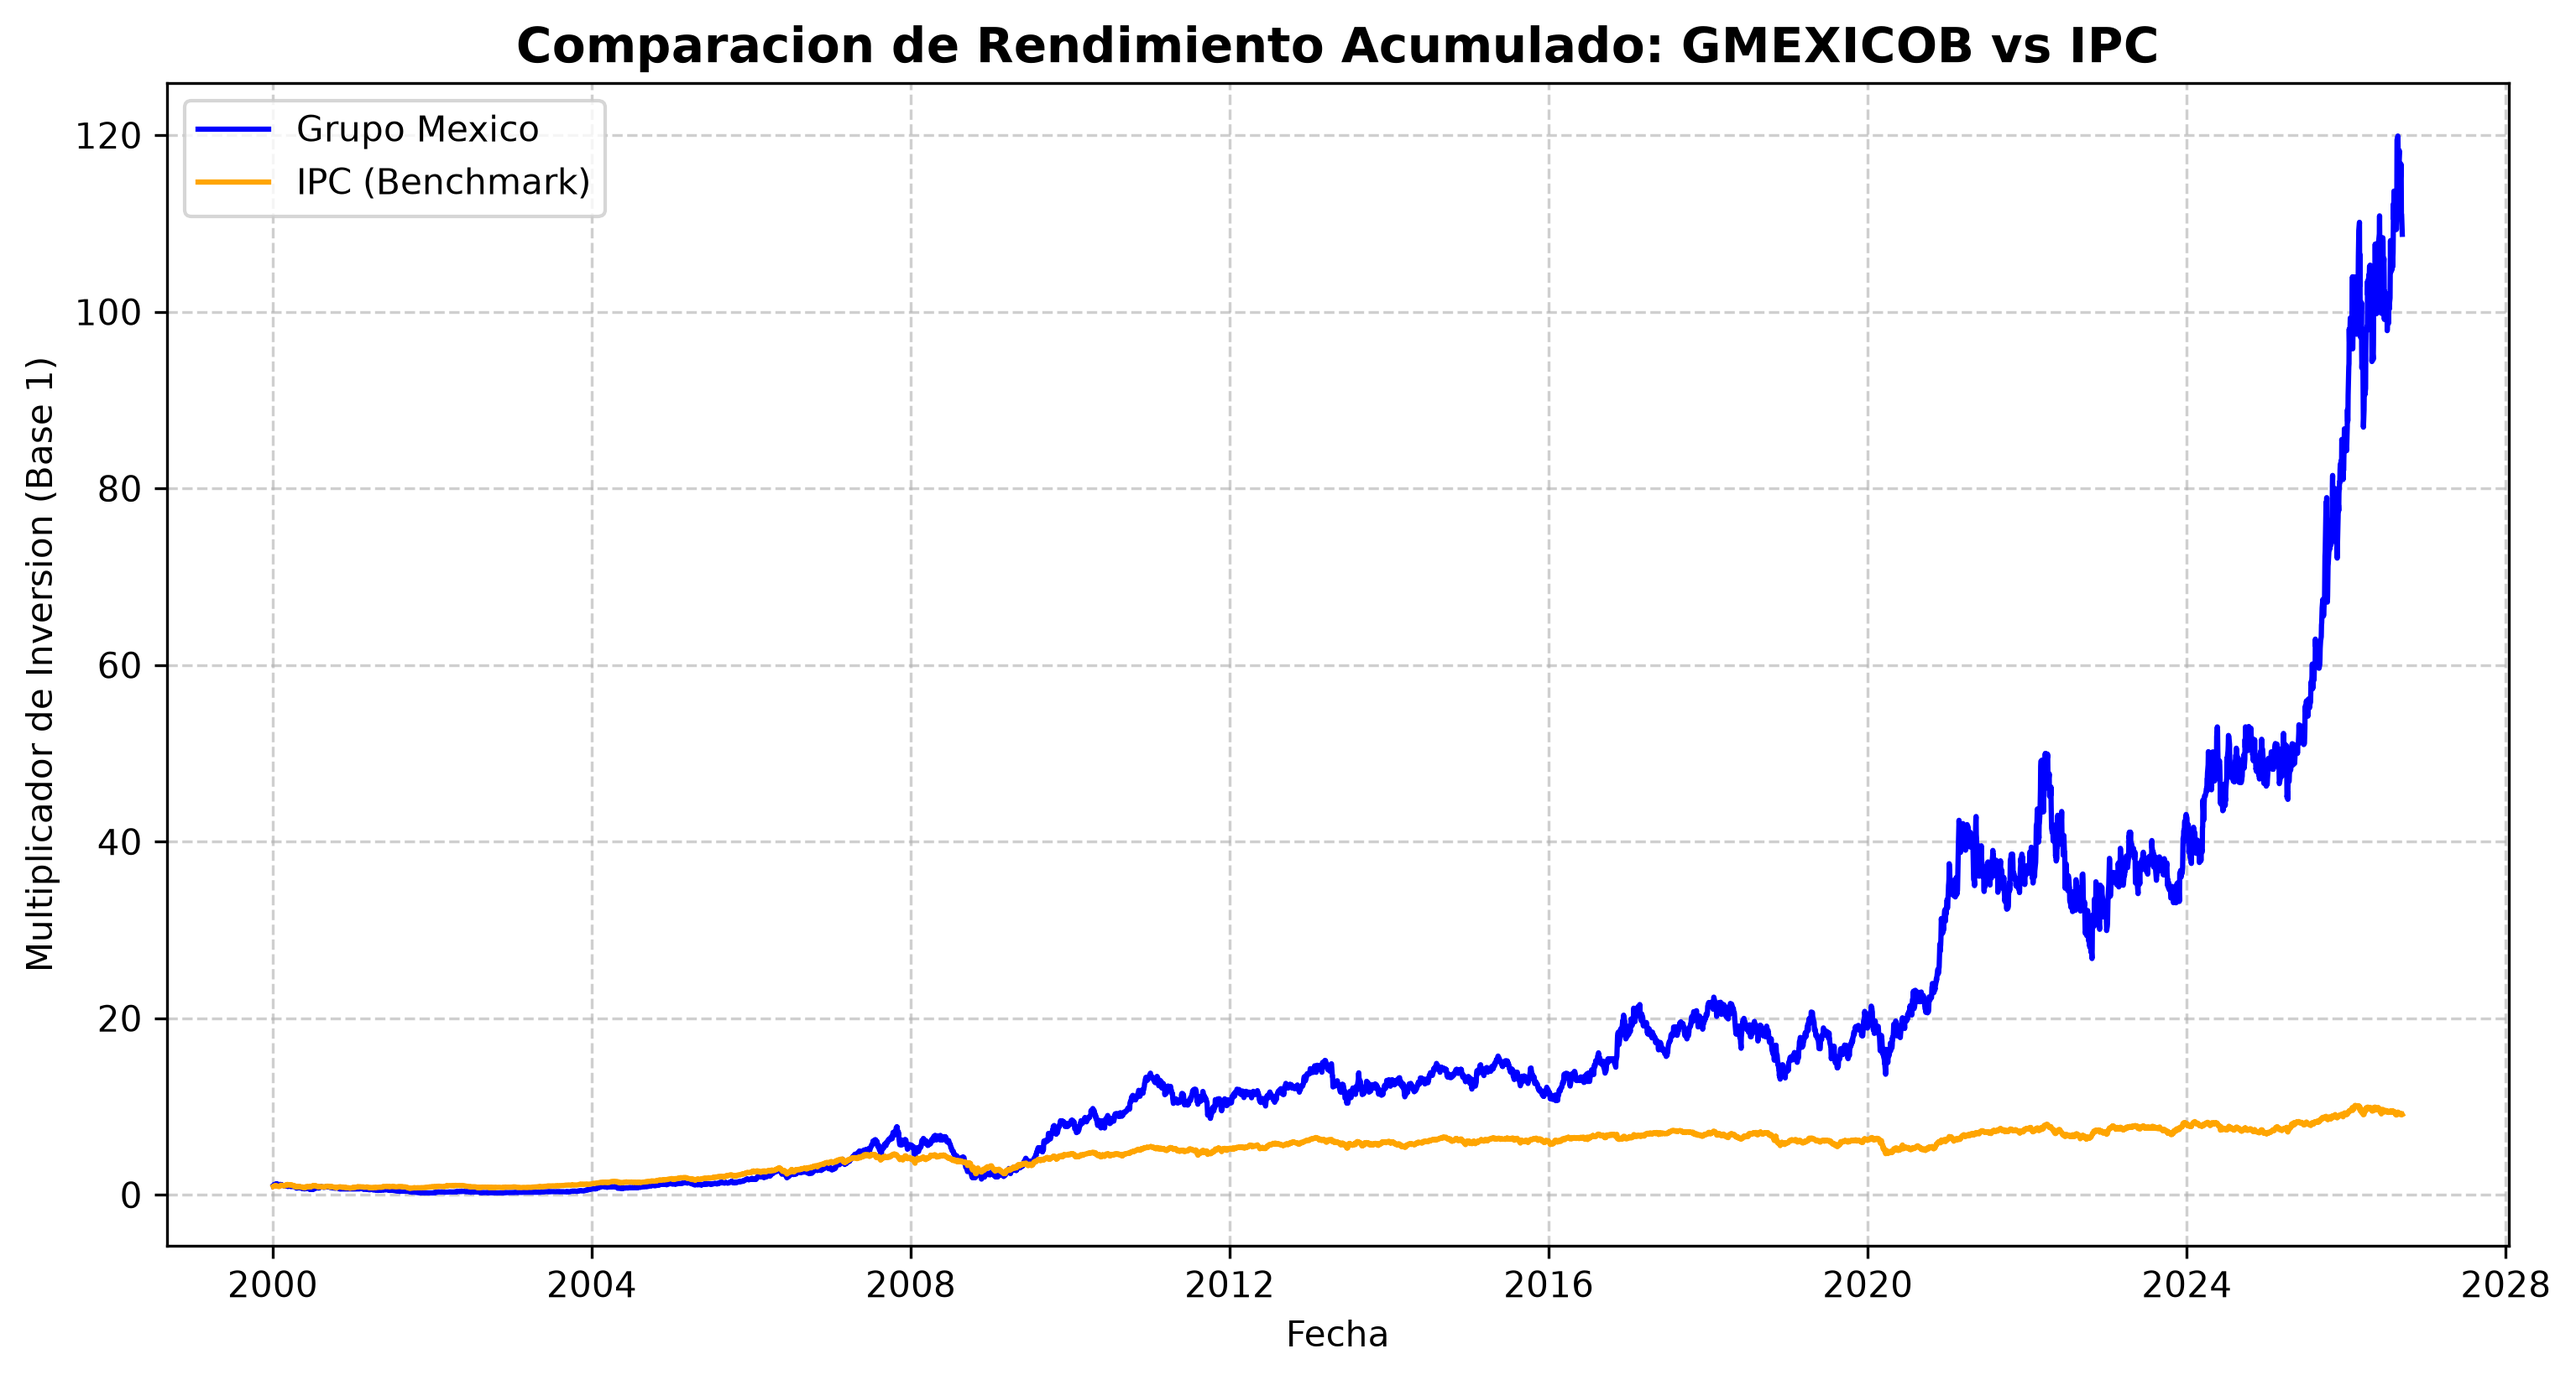
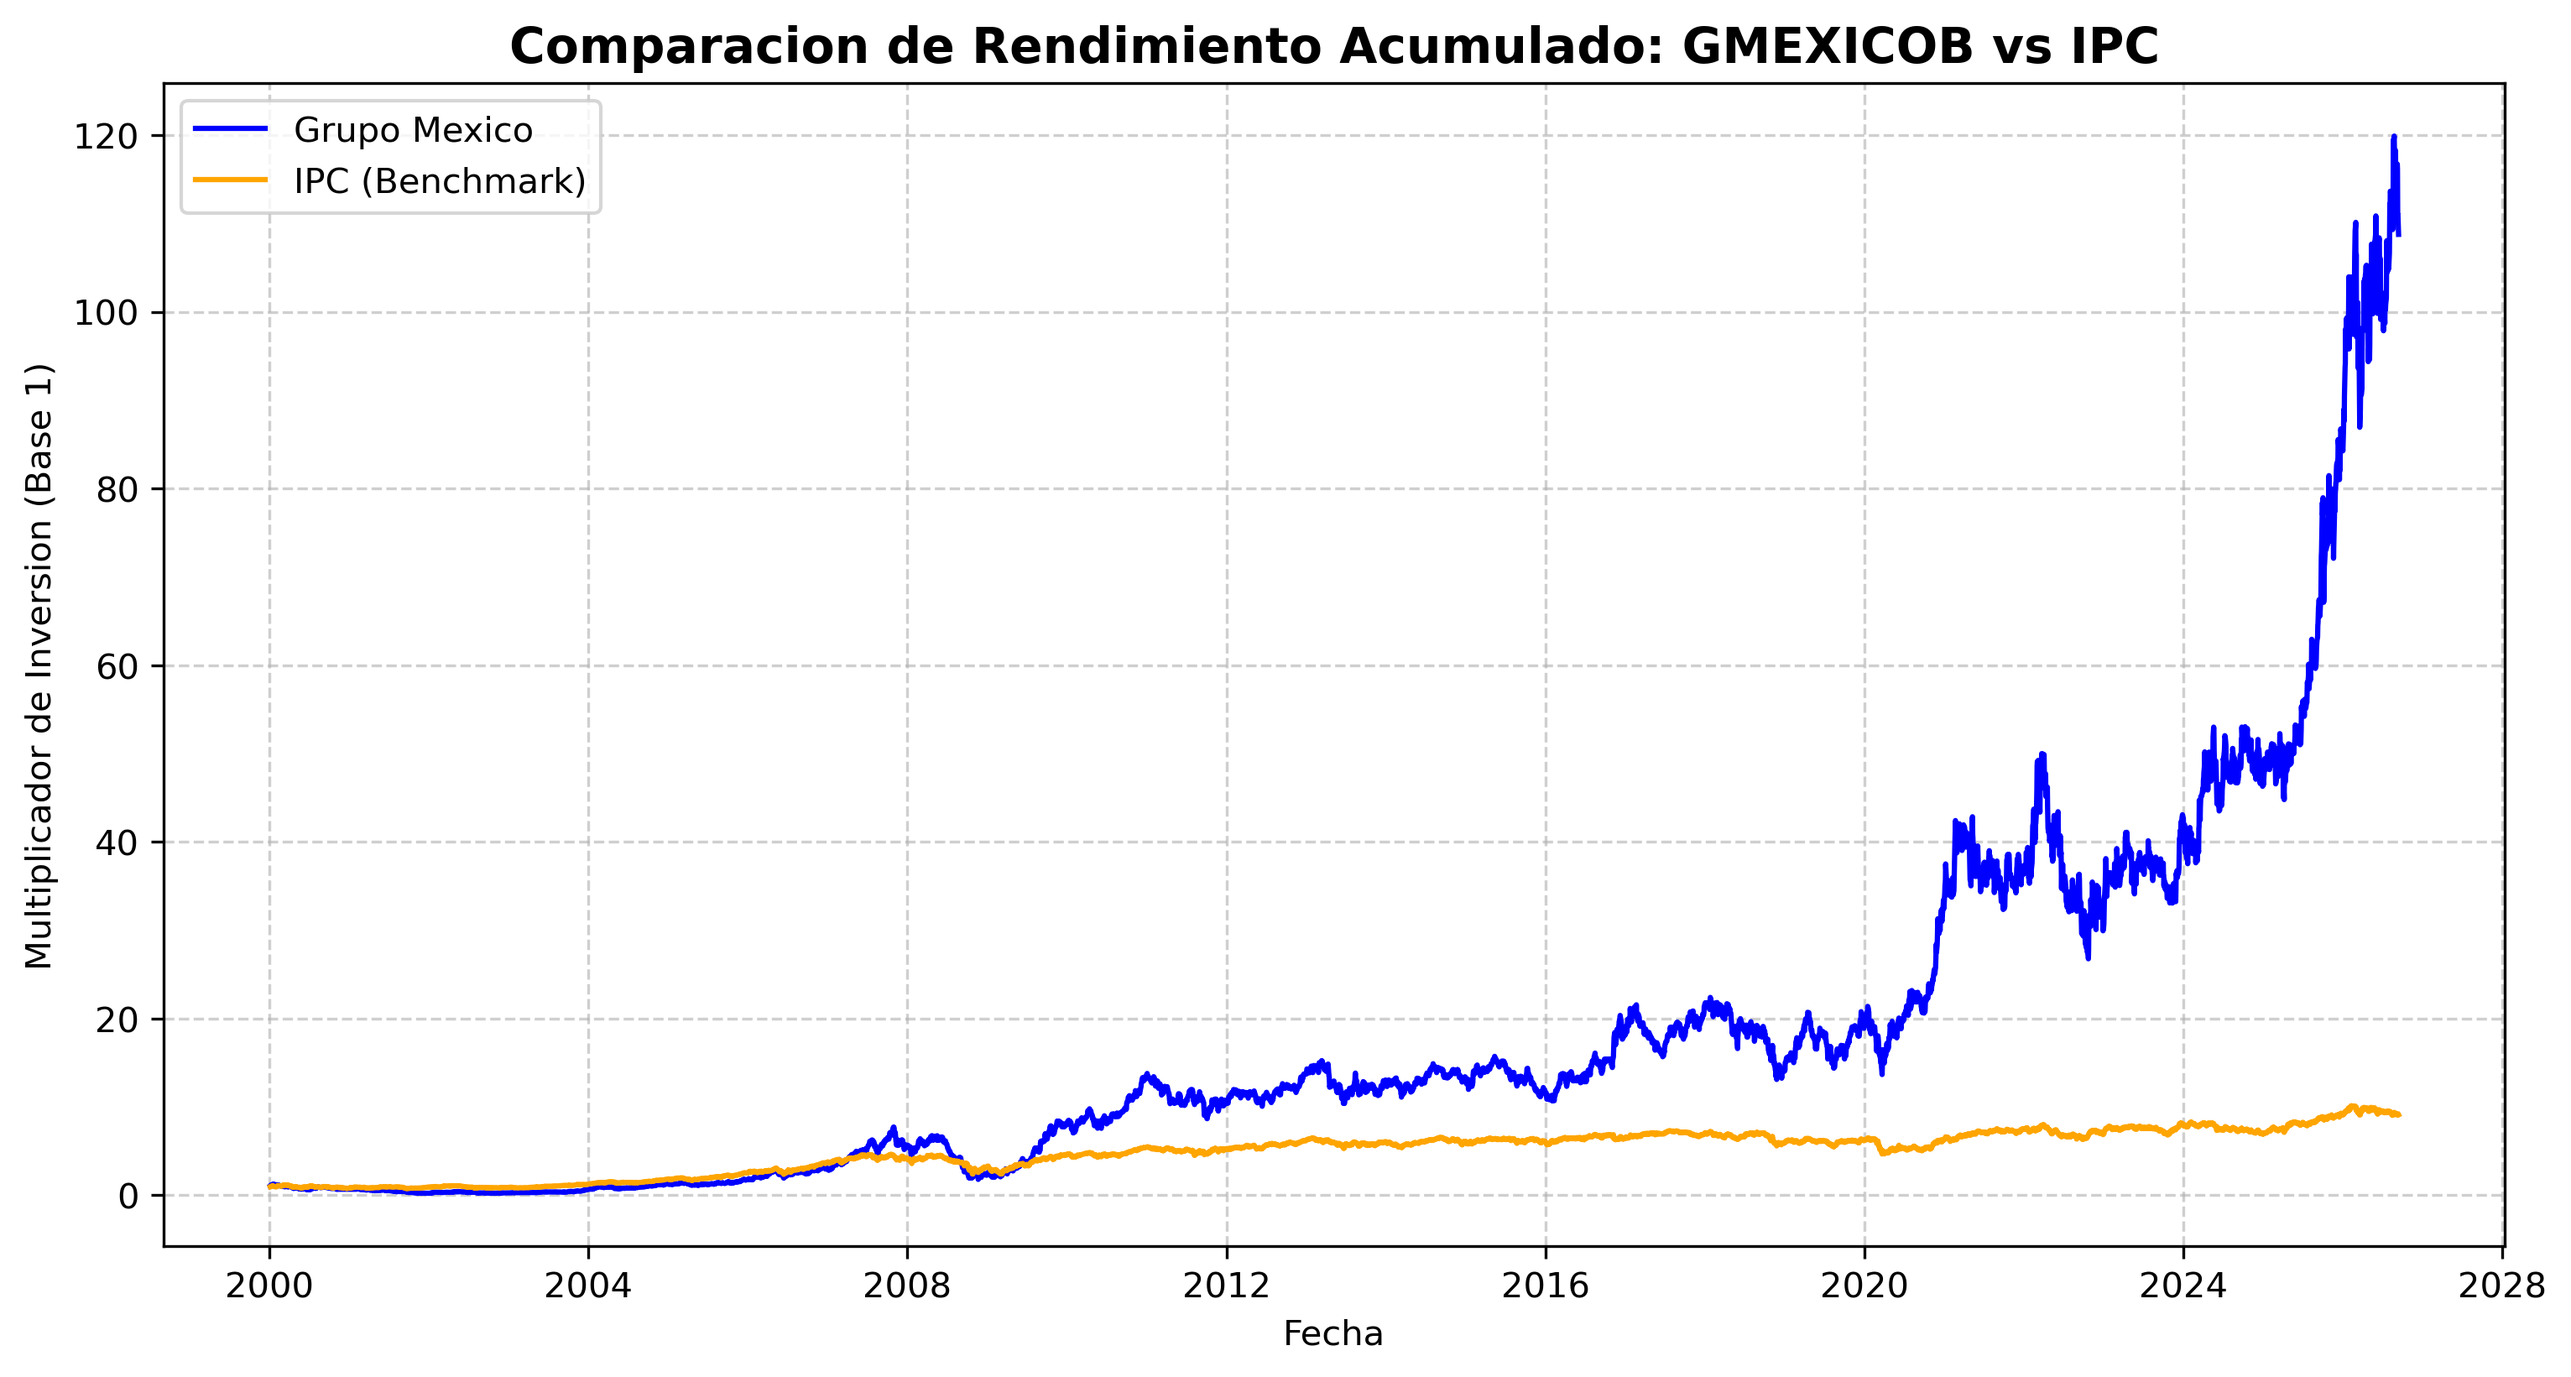
datos_macro.py
archivo de datos macro en la carpeta src y avances (parte 1 completa, parte 2 casi completa, falta la parte 3)

diff --git a/src/datos_macro.py b/src/datos_macro.py
@@ -1,0 +1,16 @@
+"""
+Crecimiento anual real del PIB de México (series originales, INEGI).
+2025 y 2026 son estimación puntual de Banxico (Informe Trimestral II-2025).
+Fuente: Banco de México, "Panorama Macroeconómico en México".
+"""
+import pandas as pd
+
+PIB_ANIOS = list(range(2000, 2027))
+PIB_CRECIMIENTO = [
+    5.0, -0.5, -0.2, 1.2, 3.6, 2.1, 4.8, 2.1, 0.9, -6.3,
+    5.0, 3.4, 3.6, 0.9, 2.5, 2.7, 1.8, 1.9, 2.0, -0.4,
+    -8.4, 6.0, 3.7, 3.4, 1.4, 0.6, 1.1
+]
+
+def get_pib_series():
+    return pd.Series(PIB_CRECIMIENTO, index=PIB_ANIOS, name="pib_crecimiento_pct")
